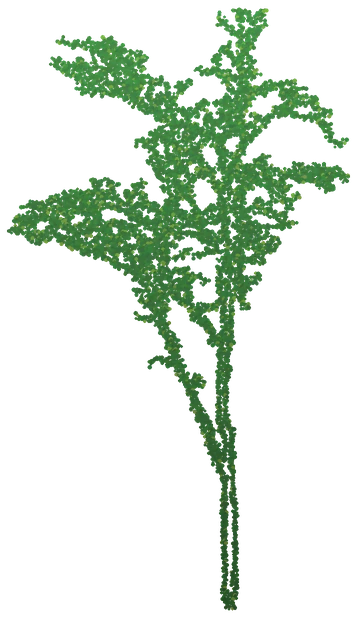
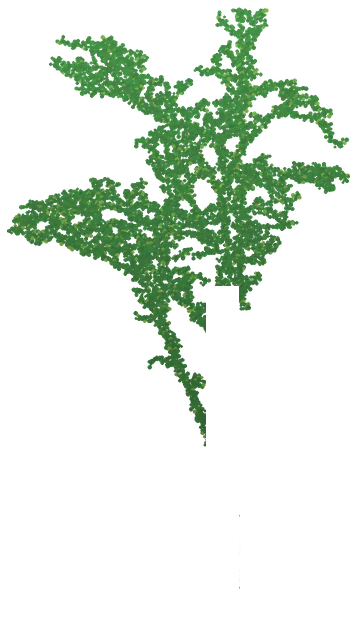
style(3d): 单木卡片底图改白（对比度更高）+ 左右两栏（左树图 / 右名称·拉丁名·经纬度·海拔）

Changed region(s): [[0.55, 0.4597, 0.6722, 1.0]]

diff --git a/3d/index.html b/3d/index.html
@@ -188,6 +188,126 @@
 			background: rgba(20,24,15,.95); color: #ddd7cd; border: 1px solid rgba(160,180,120,.4);
 			border-radius: 6px; padding: 7px 10px; font-size: 12px; line-height: 1.5; }
 
+		/* 点单木弹出的树种卡片：左侧居中；左树图（白底）+ 右名称与坐标 */
+		#treeCard { position: fixed; left: 26px; top: 50%; transform: translateY(-50%);
+			display: none; z-index: 2050; pointer-events: none; width: 560px;
+			padding: 16px 18px 16px; border-radius: 14px;
+			background: linear-gradient(165deg, rgba(24, 29, 18, .94), rgba(11, 14, 8, .97));
+			border: 1px solid rgba(160, 180, 120, .38);
+			box-shadow: 0 14px 44px rgba(0, 0, 0, .68), inset 0 1px 0 rgba(255, 255, 255, .05); }
+		#treeCard.open { display: block; }
+		#treeCard .tc-body { display: flex; align-items: center; gap: 20px; }
+		/* 白底：绿点云对比度最高 */
+		#treeCard .tc-imgwrap { position: relative; overflow: hidden; flex: none; width: 282px;
+			border-radius: 10px; background: #ffffff;
+			box-shadow: inset 0 0 0 1px rgba(0, 0, 0, .08); }
+		#treeCard .tc-imgwrap img { position: absolute; max-width: none; }
+		#treeCard .tc-info { flex: 1 1 auto; min-width: 0; }
+		#treeCard .tc-name { display: block; font-size: 30px; font-weight: 700; color: #fff;
+			letter-spacing: 2px; line-height: 1.15; }
+		#treeCard .tc-latin { display: block; margin-top: 6px; font-size: 15px; font-style: italic;
+			font-family: Georgia, "Palatino Linotype", "Times New Roman", serif;
+			color: #cfe3b0; letter-spacing: .3px; line-height: 1.4; }
+		#treeCard .tc-meta { margin-top: 12px; padding-top: 10px; font-size: 12.5px; color: #a9b898;
+			line-height: 1.9; border-top: 1px solid rgba(160, 180, 120, .22);
+			font-variant-numeric: tabular-nums; }
+		#treeCard .tc-meta b { color: #e8f0d8; font-weight: 600; }
+		body.ui-off #treeCard { display: none !important; }
+
+		/* 鼠标处的三维坐标读数（左下角，指到哪读到哪） */
+		#coordBox { position: fixed; left: 12px; bottom: 14px; z-index: 1900; display: none;
+			font-size: 12px; padding: 5px 10px; border-radius: 4px; letter-spacing: .3px;
+			color: #e7e3d8; background: rgba(20, 24, 15, .84); border: 1px solid rgba(160, 180, 120, .35); }
+		#coordBox b { color: #9ed06a; font-weight: 600; }
+		body.ui-off #coordBox { display: none !important; }
+		/* 只收「操作界面」：顶栏/镜头条/台站条/机位组面板/坐标读数。
+		   名称标签(#labels)、散点(#dots)、悬浮提示、树种卡片、图例都保留 —— 金总要求。 */
+		body.ui-off #topbar, body.ui-off #ctrlHint, body.ui-off #staBar, body.ui-off #camBar,
+		body.ui-off #kfPanel, body.ui-off #coordBox { display: none !important; }
+		#uiRestore { display: none; position: fixed; top: 10px; right: 10px; z-index: 3100;
+			font: inherit; font-size: 12.5px; padding: 6px 12px; border-radius: 4px; cursor: pointer;
+			color: #e7e3d8; background: rgba(38, 42, 30, .72); border: 1px solid rgba(160, 180, 120, .35); }
+		#uiRestore:hover { background: rgba(58, 72, 40, .9); color: #fff; }
+		body.ui-off #uiRestore { display: inline-block; }
+
+		/* 图层面板缩放：锚在右上角，放大后不跑偏 */
+		.layers-panel { transform-origin: top right; }
+		.layers-panel .lpzoom { flex: none; font: inherit; font-size: 11px; line-height: 1;
+			padding: 2px 6px; margin-left: 6px; cursor: pointer; border-radius: 3px;
+			color: #444; background: #eef0ea; border: 1px solid #c9cfc0; }
+		.layers-panel .lpzoom:hover { background: #d8e4c8; }
+
+		/* 台站切换按钮（左上，标题栏下面） */
+		#staBar { position: fixed; left: 12px; top: 78px; z-index: 1900; display: flex; gap: 6px; }
+		#staBar .sbtn { font: inherit; font-size: 12.5px; padding: 5px 11px; border-radius: 4px; cursor: pointer;
+			color: #d7d2c6; background: rgba(20, 24, 15, .82); border: 1px solid rgba(160, 180, 120, .3); }
+		#staBar .sbtn:hover { background: rgba(88, 110, 62, .85); color: #fff; }
+		#staBar .sbtn.on { background: #6ca14a; color: #14170f; font-weight: 700; border-color: #9ed06a; }
+		@media (max-width: 640px) {
+			#staBar { top: auto; bottom: 96px; left: 8px; gap: 4px; }
+			#staBar .sbtn { padding: 6px 9px; font-size: 12px; }
+		}
+
+		/* 加载进度框 */
+		#loading { position: fixed; left: 50%; top: 46%; transform: translate(-50%, -50%); z-index: 3000;
+			background: rgba(16, 20, 12, .88); border: 1px solid rgba(160, 180, 120, .35);
+			border-radius: 10px; padding: 22px 30px 18px; min-width: 230px; text-align: center;
+			color: #d7d2c6; box-shadow: 0 10px 30px rgba(0,0,0,.6); }
+		#loading.done { opacity: 0; transition: opacity .5s; pointer-events: none; }
+		#loading .spin { width: 34px; height: 34px; margin: 0 auto 12px; border-radius: 50%;
+			border: 3px solid rgba(210, 225, 180, .25); border-top-color: #8fbf63;
+			animation: lspin .9s linear infinite; }
+		@keyframes lspin { to { transform: rotate(360deg); } }
+		#loading .ltxt { font-size: 14px; margin-bottom: 10px; }
+		#loading .lbar { height: 6px; border-radius: 3px; background: rgba(255,255,255,.12); overflow: hidden; }
+		#loading .lbar i { display: block; height: 100%; width: 0; border-radius: 3px;
+			background: linear-gradient(90deg, #6ca14a, #9ed06a); transition: width .3s; }
+		#loading .lsub { font-size: 11.5px; opacity: .75; margin-top: 7px; }
+
+		/* 右上角图层控件（常开，白底可选面板，同 2D 地图） */
+		.layers { position: relative; pointer-events: auto; }
+		/* 面板固定在视口最右上角（原来挂在「图层」按钮下面，压住画面）。
+		   position:fixed 后不再受顶栏换行影响，窄屏也不用再往左挪。 */
+		.layers-panel { position: fixed; right: 12px; top: 62px; z-index: 2100;
+			background: #fff; color: #333; border-radius: 6px; box-shadow: 0 2px 12px rgba(0,0,0,.4);
+			padding: 10px 14px 8px; min-width: 170px; max-width: calc(100vw - 24px); display: none;
+			max-height: calc(100vh - 84px); overflow-y: auto; }   /* 开关多了：矮窗口里滚动，别顶出屏 */
+		.layers-panel.open { display: block; }                    /* 点「图层」按钮展开 */
+		.layers-panel .lp-cap { display: flex; align-items: center; justify-content: space-between; gap: 10px;
+			font-size: 12px; font-weight: 700; color: #666;
+			letter-spacing: .5px; margin: 0 0 4px; }
+		.lbtn { display: inline-block; }   /* 「图层」按钮：所有尺寸都显示，点它折叠/展开面板 */
+		.layers-panel label { display: block; padding: 5px 4px; font-size: 14px; cursor: pointer;   /* 5px：14 行时别顶到右下角图例 */
+			user-select: none; white-space: nowrap; border-radius: 4px; }
+		.layers-panel label:hover { background: rgba(108,161,74,.14); }
+		.layers-panel input { margin-right: 7px; vertical-align: middle; width: 15px; height: 15px;
+			accent-color: #2f6fdb; cursor: pointer; }
+
+		/* 三维场景里的浮动标签 */
+		#labels { position: fixed; inset: 0; z-index: 1500; pointer-events: none; overflow: hidden; }
+		/* 标签底色 = 对应散点的颜色（--lbl-bg 由脚本按图层设，见 applyLblColor）。
+		   亮底自动配深色字，保证读得清；鼠标悬停仍然变绿。 */
+		.lbl { position: absolute; transform: translate(-50%, -50%); pointer-events: auto; cursor: pointer;
+			white-space: normal; max-width: 250px; text-align: center; line-height: 1.35;
+			font-size: 11px; padding: 2px 7px; border-radius: 10px;
+			color: var(--lbl-fg, #fff);
+			background: var(--lbl-bg, rgba(28,33,22,.78));
+			border: 1px solid var(--lbl-bd, rgba(160,180,120,.5));
+			box-shadow: 0 1px 4px rgba(0,0,0,.5); }
+		/* 定位站（全称）专属：旗帜形标签，底部一个小尖角指向位置 */
+		.lbl.station { border-radius: 6px; padding: 3px 9px 4px; font-weight: 700; }
+		.lbl.station::after { content: ''; position: absolute; left: 50%; bottom: -6px;
+			transform: translateX(-50%); width: 0; height: 0;
+			border-left: 6px solid transparent; border-right: 6px solid transparent;
+			border-top: 7px solid var(--lbl-bd, #8e1247); }
+		.lbl.tree { background: var(--lbl-bg, rgba(40,74,40,.86)); }
+		.lbl.log { background: var(--lbl-bg, rgba(122,66,28,.9)); font-weight: 700; }
+		.lbl:hover { background: #6ca14a; border-color: #fff; }
+		.lbl.hidden { display: none; }
+		#tip { position: fixed; z-index: 1600; pointer-events: none; max-width: 240px; display: none;
+			background: rgba(20,24,15,.95); color: #ddd7cd; border: 1px solid rgba(160,180,120,.4);
+			border-radius: 6px; padding: 7px 10px; font-size: 12px; line-height: 1.5; }
+
 		/* 点单木弹出的树种卡片：左侧竖直居中，深色底衬 + 大图 + 下方名称与坐标 */
 		#treeCard { position: fixed; left: 26px; top: 50%; transform: translateY(-50%);
 			display: none; z-index: 2050; pointer-events: none; width: 400px;
@@ -486,12 +606,14 @@
 	<div id="tip"></div>
 		<!-- 点单木浮出的树种动图（透明底，直接叠在场景上；内容由 showTreeCard 填） -->
 		<div id="treeCard">
-			<div class="tc-imgwrap" id="tcWrap"><img class="tc-img" id="tcImg" alt=""></div>
-			<div class="tc-names">
-				<span class="tc-name" id="tcName"></span>
-				<span class="tc-latin" id="tcLatin"></span>
+			<div class="tc-body">
+				<div class="tc-imgwrap" id="tcWrap"><img class="tc-img" id="tcImg" alt=""></div>
+				<div class="tc-info">
+					<span class="tc-name" id="tcName"></span>
+					<span class="tc-latin" id="tcLatin"></span>
+					<div class="tc-meta" id="tcMeta"></div>
+				</div>
 			</div>
-			<div class="tc-meta" id="tcMeta"></div>
 		</div>
 	<canvas id="dots"></canvas>
 	<div id="legend3d">
@@ -1542,16 +1664,19 @@
 				var pad = 1.04;
 				var bw = b[2] * pad, bh = b[3] * pad;
 				var ox = b[0] - b[2] * (pad - 1) / 2, oy = b[1] - b[3] * (pad - 1) / 2;
-				var TH = Math.max(240, Math.min(360, Math.round(innerHeight * 0.40)));   /* 树高：更大更清楚 */
+				var TH = Math.max(210, Math.min(330, Math.round(innerHeight * 0.36)));
 				var sc = TH / bh;
+				var BW = 282;                                   /* 白框宽度（CSS 同步） */
+				var imgW = 1138 * sc, treeW = bw * sc;
 				var url = 'trees/' + key + '.gif';
 				if (e.img.getAttribute('src') !== url) { e.img.setAttribute('src', url); }
-				e.img.style.width = Math.round(1138 * sc) + 'px';
-				e.img.style.left = Math.round(-ox * sc) + 'px';
-				e.img.style.top = Math.round(-oy * sc) + 'px';
+				e.img.style.width = Math.round(imgW) + 'px';
+				/* 树在框里水平居中 */
+				e.img.style.left = Math.round((BW - treeW) / 2 - ox * sc) + 'px';
+				e.img.style.top = Math.round(-oy * sc + Math.max(0, (TH - bh * sc) / 2)) + 'px';
 				e.wrap.style.display = 'block';
-				e.wrap.style.height = Math.round(bh * sc) + 'px';
-				e.wrap.style.width = '100%';
+				e.wrap.style.height = (TH + 24) + 'px';
+				e.wrap.style.width = BW + 'px';
 			} else {
 				e.wrap.style.display = 'none';
 				meta = (meta ? meta + '<br>' : '') +

diff --git a/设备示意/index.html b/设备示意/index.html
@@ -98,6 +98,25 @@
     filter: drop-shadow(0 3px 5px rgba(24, 52, 36, .28));
   }
   /* 树种标识：树干旁编号小圆牌 + 底部完整名录 */
+  .species {
+    position: absolute;
+    z-index: 7;
+    writing-mode: vertical-rl;
+    text-orientation: mixed;
+    white-space: nowrap;
+    line-height: 1.15;
+    pointer-events: none;
+    padding: 4px 3px;
+    background: linear-gradient(180deg, rgba(250,253,249,0), rgba(250,253,249,.86) 14%, rgba(250,253,249,.86) 86%, rgba(250,253,249,0));
+  }
+  .species b { font-size: 11.5px; font-weight: 700; color: #24452f; }
+  .species i {
+    font-family: "Palatino Linotype", "Book Antiqua", Georgia, "Times New Roman", serif;
+    font-style: italic;
+    font-size: 11px;
+    color: #4c6a58;
+    margin-block-start: 4px;
+  }
   .tree-badge {
     position: absolute;
     z-index: 7;
@@ -385,6 +404,10 @@
       <!-- 远景铁塔顶上的 GT200 网关主站（无线汇聚点） -->
       <img class="gt200" src="img/gt200.webp" alt="GT200 网关主站" />
       <!-- 塔顶网关放大子图 -->
+      <div class="plate" style="left: 78.6%; top: 19.2%;">
+        <div class="tri wifi"></div>
+        <div class="nm">GT200 网关主站</div>
+      </div>
       <div class="gt-inset">
         <img src="img/gt200.webp" alt="GT200 网关主站放大特写" />
         <div class="cap"><b>GT200 网关主站</b><span>塔顶放大 · 无线数据先汇于此</span></div>
@@ -932,35 +955,23 @@
   var scale = 1, dpr = Math.min(2, window.devicePixelRatio || 1);
   var t0 = performance.now();
 
-  /* 树种标识：树干旁编号牌 + 底部名录（7 个树种，各标一棵最显眼的树） */
+  /* 树种名：贴树干竖排（中文 + 拉丁名） */
   function addSpeciesLabels() {
     var reps = {};
     if (!reps[HERO_TREE.sprite]) { reps[HERO_TREE.sprite] = HERO_TREE; }
     FG_TREES.forEach(function (m) { if (!reps[m.sprite]) { reps[m.sprite] = m; } });
     BACK_TREES.forEach(function (m) { if (!reps[m.sprite]) { reps[m.sprite] = m; } });
 
-    var legendItems = [];
     Object.keys(reps).forEach(function (k) {
       var m = reps[k], sp = SPECIES[k];
       if (!sp) { return; }
-      var no = parseInt(k, 10) + 1;
-
-      var badge = document.createElement('div');
-      badge.className = 'tree-badge';
-      badge.style.left = ((m.x + 11) / W * 100).toFixed(3) + '%';
-      badge.style.top = ((m.base - m.h * 0.42) / H * 100).toFixed(3) + '%';
-      badge.textContent = no;
-      labelLayer.appendChild(badge);
-
-      legendItems.push('<span><u>' + no + '</u><b>' + sp.cn + '</b><i>' + sp.la + '</i></span>');
+      var el = document.createElement('div');
+      el.className = 'species';
+      el.style.left = ((m.x + 17) / W * 100).toFixed(3) + '%';
+      el.style.top = ((m.base - 120) / H * 100).toFixed(3) + '%';
+      el.innerHTML = '<b>' + sp.cn + '</b><i>' + sp.la + '</i>';
+      labelLayer.appendChild(el);
     });
-
-    if (legendItems.length) {
-      var legend = document.createElement('div');
-      legend.className = 'tree-legend';
-      legend.innerHTML = legendItems.join('');
-      stage.appendChild(legend);
-    }
   }
 
   function resize() {
@@ -1026,6 +1037,10 @@
       bctx.fill();
       bctx.restore();
     }
+    /* 最远一层：更低的远山剪影 */
+    ridge([[0,470],[260,442],[520,462],[820,430],[1120,458],[1420,432],[1720,460],[2000,438]], '#e2ece3', 0.55);
+    /* 更高的一层：左上方主峰 */
+    ridge([[0,300],[130,214],[250,282],[380,188],[520,300],[700,352],[900,392],[1200,418],[1500,448],[1800,462],[2000,470]], '#dfeade', 0.62);
     ridge([[0,432],[180,358],[360,406],[560,330],[760,394],[980,316],[1200,386],[1420,330],[1620,392],[1820,338],[2000,398]], '#c9dacb', 0.62);
     ridge([[0,502],[220,434],[460,488],[700,418],[940,480],[1180,426],[1420,488],[1660,438],[2000,496]], '#aecbb6', 0.70);
     ridge([[0,590],[260,528],[520,568],[800,514],[1080,562],[1360,520],[1640,568],[2000,528]], '#93b89e', 0.74);
@@ -1248,15 +1263,6 @@
     });
     fctx.globalAlpha = 1;
 
-    /* 地面上自然堆放的三段小线圈 */
-    [[982, 812, 7.5], [1214, 806, 6.0], [1448, 810, 8.0]].forEach(function (c) {
-      fctx.strokeStyle = 'rgba(38, 94, 138, .42)';
-      fctx.lineWidth = 1.8;
-      fctx.beginPath();
-      fctx.arc(c[0], c[1], c[2], 0.25, Math.PI * 1.88);
-      fctx.stroke();
-    });
-
     /* 主干沿采集箱三脚架升上去 */
     var upPath = function (u) {
       return [busRight + Math.sin(u * Math.PI * 2) * 2.4, CABLE_Y - (CABLE_Y - 612) * u];
@@ -1297,21 +1303,6 @@
     });
 
     drawDynamicWifi(fctx, GATEWAY_ANT[0], GATEWAY_ANT[1], el + 0.6, 0, 24, '22, 133, 122');
-
-    /* ---- 吊线：塔顶网关 -> 右侧放大子图 ---- */
-    fctx.save();
-    fctx.setLineDash([3, 4]);
-    fctx.strokeStyle = 'rgba(47, 122, 79, .55)';
-    fctx.lineWidth = 1.3;
-    fctx.beginPath();
-    fctx.moveTo(GATEWAY_ANT[0] + 26, GATEWAY_ANT[1] - 10);
-    fctx.lineTo(1660, 132);
-    fctx.stroke();
-    fctx.restore();
-    fctx.fillStyle = 'rgba(47, 122, 79, .85)';
-    fctx.beginPath();
-    fctx.arc(GATEWAY_ANT[0] + 26, GATEWAY_ANT[1] - 10, 2.6, 0, 6.2832);
-    fctx.fill();
 
     /* ---- C. 采集箱 4G 路由器 -> 铁塔顶 GT200 网关主站 -> 右侧电脑 ---- */
     var cabinetTop = [1548, 464];
@@ -1365,10 +1356,10 @@
   var chartSvg = document.getElementById('liveChart');
   var liveTicks = 0;
   var SERIES = [
-    { color: '#28784f', w: 2.2, dash: '',    n: 60, base: 50, amp: 26, ph: 0.00, wob: 1.4 },
-    { color: '#2478b4', w: 1.9, dash: '5 3', n: 60, base: 56, amp: 18, ph: 0.16, wob: 1.1 },
-    { color: '#c07a2a', w: 1.8, dash: '',    n: 11, base: 44, amp: 28, ph: 0.30, wob: 2.6 },
-    { color: '#875fa6', w: 1.7, dash: '2 3', n: 13, base: 62, amp: 14, ph: 0.46, wob: 2.0 }
+    { color: '#28784f', w: 2.2, dash: '',    n: 60, base: 50, amp: 26, ph: 0.00, wob: 1.4, mode: 'peak' },
+    { color: '#2478b4', w: 1.9, dash: '5 3', n: 60, base: 56, amp: 18, ph: 0.16, wob: 1.1, mode: 'trough' },
+    { color: '#c07a2a', w: 1.8, dash: '',    n: 11, base: 44, amp: 28, ph: 0.30, wob: 2.6, mode: 'peak' },
+    { color: '#875fa6', w: 1.7, dash: '2 3', n: 13, base: 62, amp: 14, ph: 0.46, wob: 2.0, mode: 'trough' }
   ];
   (function buildSeries() {
     var ns = 'http://www.w3.org/2000/svg';
@@ -1391,9 +1382,12 @@
       var sr = SERIES[i], d2 = '';
       for (var k = 0; k < sr.n; k++) {
         var u = k / (sr.n - 1);
-        var tau = (u * 1.15 + sr.ph + t * 0.035) % 1;
-        var day = Math.max(0, Math.sin(tau * Math.PI * 2));      /* 白天抬升、夜间回落 */
-        var y = sr.base - sr.amp * Math.pow(day, 1.5)
+        var tau = (u * 1.15 + sr.ph + t * 0.115) % 1;
+        var wave = Math.sin(tau * Math.PI * 2);
+        /* peak = 白天抬升；trough = 夜间下凹，形成明显波谷 */
+        var day = sr.mode === 'trough' ? Math.max(0, -wave) : Math.max(0, wave);
+        var sign = sr.mode === 'trough' ? 1 : -1;
+        var y = sr.base + sign * sr.amp * Math.pow(day, 1.5)
               + Math.sin((u + t * 0.06) * 9 + sr.ph * 7) * sr.wob;
         y = Math.max(4, Math.min(88, y));
         d2 += (k === 0 ? 'M' : 'L') + (u * 240).toFixed(1) + ' ' + y.toFixed(1);

diff --git a/js/lazy-load.js b/js/lazy-load.js
@@ -100,7 +100,7 @@
         return new Promise(function (resolve, reject) {
             var el = document.createElement('script');
             /* 版本戳：改了 JS 但浏览器缓存住旧文件会让人以为没改（本地实测踩过两次） */
-            el.src = src + (src.indexOf('?') >= 0 ? '&' : '?') + 'v=20261019d';
+            el.src = src + (src.indexOf('?') >= 0 ? '&' : '?') + 'v=20261019f';
             el.async = false;          /* 保险：即使被并发插入也按顺序执行 */
             el.onload = function () { resolve(); };
             el.onerror = function () { reject(new Error('加载失败: ' + src)); };
@@ -148,7 +148,7 @@
                 if (!frame.getAttribute('src')) {
                     /* 加版本戳：iframe 里的 HTML 也会被浏览器缓存，改了看不到（实测踩到过） */
                     var ds = frame.getAttribute('data-src') || '';
-                    frame.setAttribute('src', ds + (ds.indexOf('?') >= 0 ? '&' : '?') + 'v=20261019e');
+                    frame.setAttribute('src', ds + (ds.indexOf('?') >= 0 ? '&' : '?') + 'v=20261019f');
                     /* 别死等 iframe 的 load 事件：资源慢时它可能很久不触发，看起来就像「点了没反应」。
                        点下去就先把占位层收起来，另加 8 秒兜底；load 事件到了仍然再兜一次。 */
                     var ph0 = document.getElementById('canopyPlaceholder');
